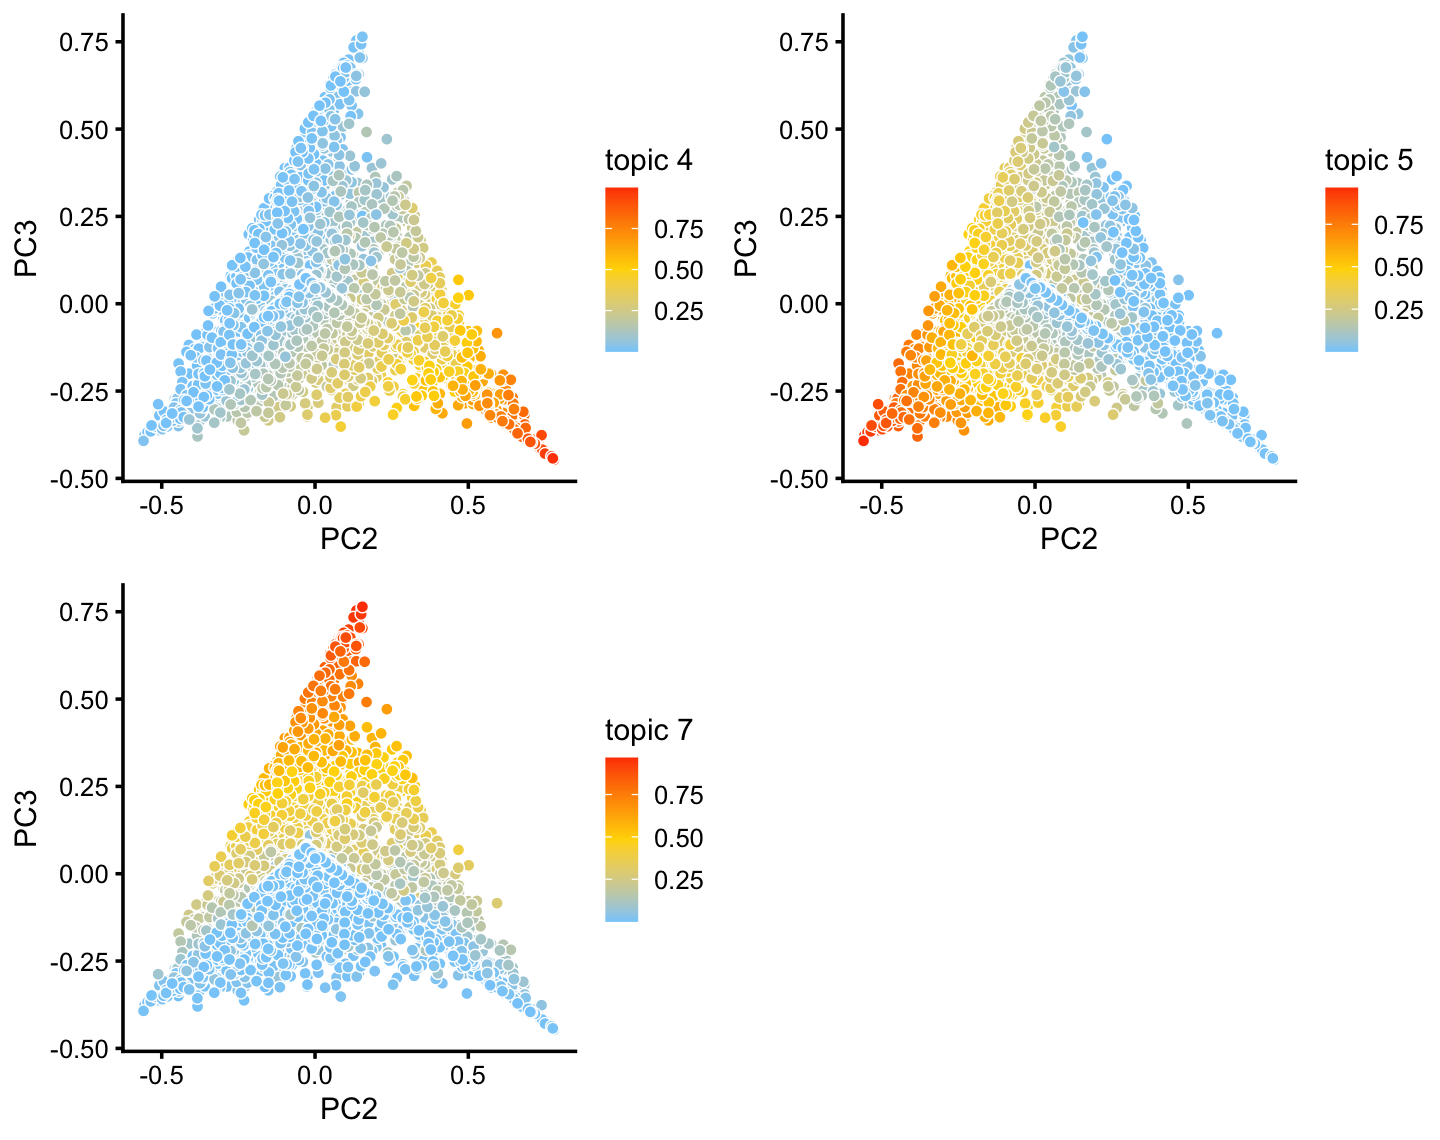
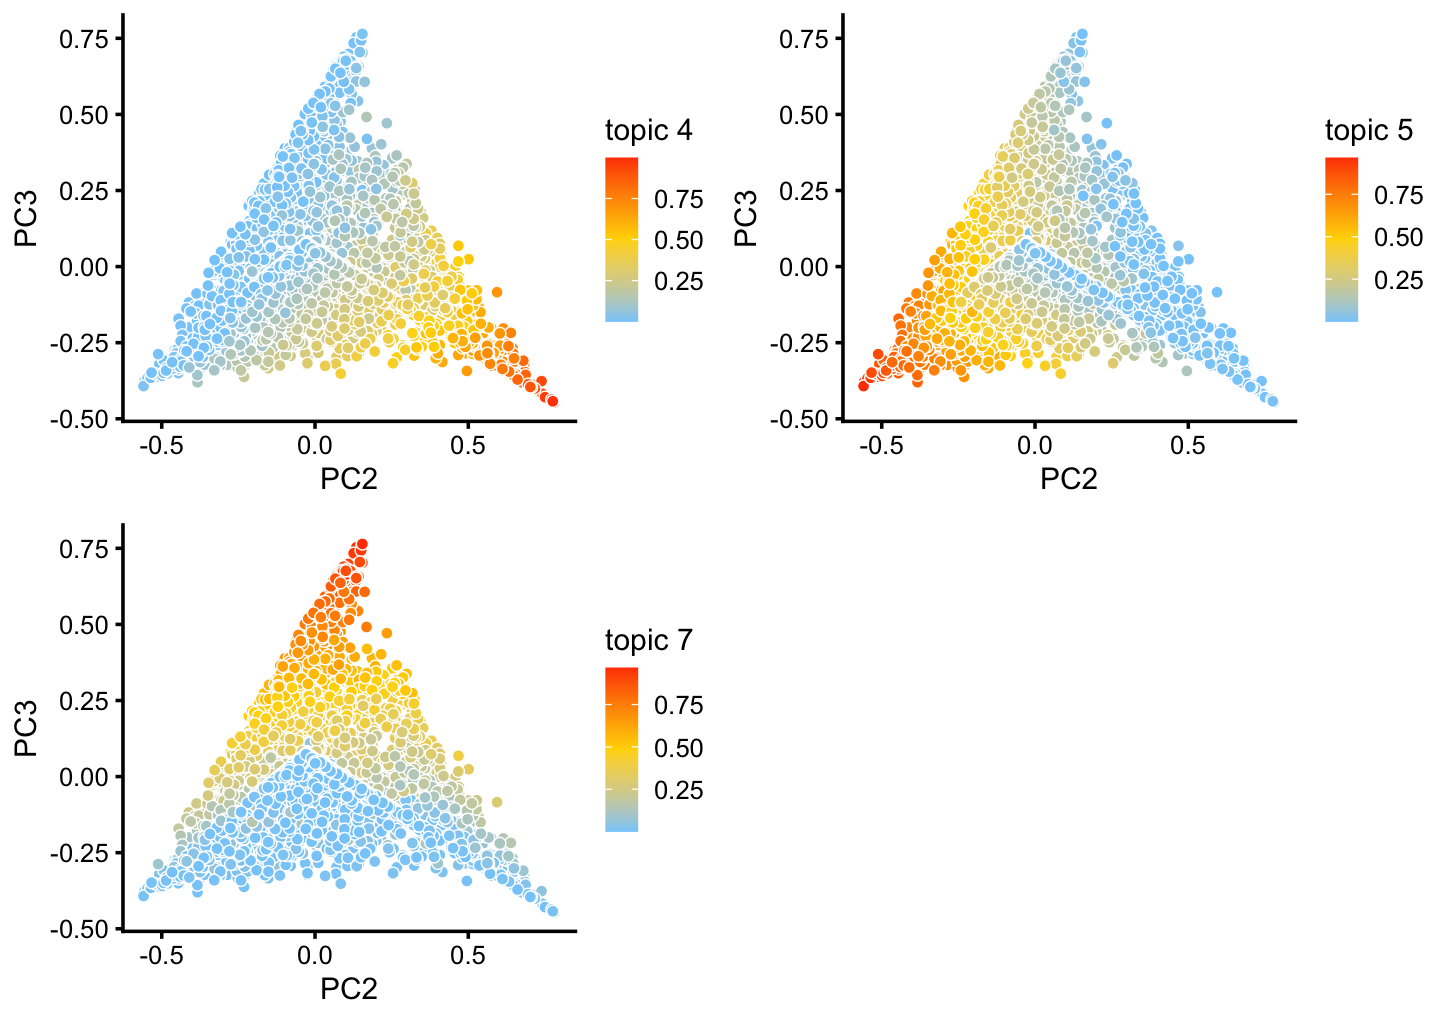
clusters_droplet no longer uses plots.R.

diff --git a/docs/clusters_droplet.html b/docs/clusters_droplet.html
@@ -414,16 +414,16 @@ This reproducible <a href="http://rmarkdown.rstudio.com">R Markdown</a> analysis
 <div class="panel panel-default">
 <div class="panel-heading">
 <p class="panel-title">
-<a data-toggle="collapse" data-parent="#workflowr-checks" href="#strongRepositoryversionstrongahrefhttpsgithubcomstephenslabsinglecelltopicstreef4e04485104469aaeb58e722340f256cf65b084dtargetblankf4e0448a"> <span class="glyphicon glyphicon-ok text-success" aria-hidden="true"></span> <strong>Repository version:</strong> <a href="https://github.com/stephenslab/single-cell-topics/tree/f4e04485104469aaeb58e722340f256cf65b084d" target="_blank">f4e0448</a> </a>
+<a data-toggle="collapse" data-parent="#workflowr-checks" href="#strongRepositoryversionstrongahrefhttpsgithubcomstephenslabsinglecelltopicstreed5ea8c29bf6088df4a4038a19916eff751b3cbe7targetblankd5ea8c2a"> <span class="glyphicon glyphicon-ok text-success" aria-hidden="true"></span> <strong>Repository version:</strong> <a href="https://github.com/stephenslab/single-cell-topics/tree/d5ea8c29bf6088df4a4038a19916eff751b3cbe7" target="_blank">d5ea8c2</a> </a>
 </p>
 </div>
[2 lines of base64/hex data omitted]
 <div class="panel-body">
 <p>
 Great! You are using Git for version control. Tracking code development and connecting the code version to the results is critical for reproducibility.
 </p>
 <p>
-The results in this page were generated with repository version <a href="https://github.com/stephenslab/single-cell-topics/tree/f4e04485104469aaeb58e722340f256cf65b084d" target="_blank">f4e0448</a>. See the <em>Past versions</em> tab to see a history of the changes made to the R Markdown and HTML files.
+The results in this page were generated with repository version <a href="https://github.com/stephenslab/single-cell-topics/tree/d5ea8c29bf6088df4a4038a19916eff751b3cbe7" target="_blank">d5ea8c2</a>. See the <em>Past versions</em> tab to see a history of the changes made to the R Markdown and HTML files.
 </p>
 <p>
 Note that you need to be careful to ensure that all relevant files for the analysis have been committed to Git prior to generating the results (you can use <code>wflow_publish</code> or <code>wflow_git_commit</code>). workflowr only checks the R Markdown file, but you know if there are other scripts or data files that it depends on. Below is the status of the Git repository when the results were generated:
@@ -444,6 +444,9 @@ Ignored files:
     Ignored:    output/pulseseq/diff-count-pulseseq.RData
     Ignored:    output/pulseseq/fits-pulseseq.RData
     Ignored:    output/pulseseq/rds/
+
+Untracked files:
+    Untracked:  analysis/clustering-droplet.rds
 
 Unstaged changes:
     Modified:   analysis/plots_tracheal_epithelium.Rmd
@@ -485,6 +488,40 @@ Message
 </tr>
 </thead>
 <tbody>
+<tr>
+<td>
+Rmd
+</td>
+<td>
+<a href="https://github.com/stephenslab/single-cell-topics/blob/d5ea8c29bf6088df4a4038a19916eff751b3cbe7/analysis/clusters_droplet.Rmd" target="_blank">d5ea8c2</a>
+</td>
+<td>
+Peter Carbonetto
+</td>
+<td>
+2020-10-06
+</td>
+<td>
+workflowr::wflow_publish(“clusters_droplet.Rmd”, verbose = TRUE)
+</td>
+</tr>
+<tr>
+<td>
+html
+</td>
+<td>
+<a href="https://rawcdn.githack.com/stephenslab/single-cell-topics/d707238a4eff6946e4e84130725678bfcb8ff27f/docs/clusters_droplet.html" target="_blank">d707238</a>
+</td>
+<td>
+Peter Carbonetto
+</td>
+<td>
+2020-10-06
+</td>
+<td>
+Re-built clusters_droplet analysis using new fastTopics plots.
+</td>
+</tr>
 <tr>
 <td>
 Rmd
@@ -974,8 +1011,7 @@ Implemented basic_pca_plot; improved labeled_pca_plot function.
 library(dplyr)
 library(fastTopics)
 library(ggplot2)
-library(cowplot)
-source(&quot;../code/plots.R&quot;)</code></pre>
+library(cowplot)</code></pre>
 <div id="load-data-and-results" class="section level2">
 <h2>Load data and results</h2>
 <p>Load the droplet data.</p>
@@ -1013,6 +1049,17 @@ Date
 </tr>
 </thead>
 <tbody>
+<tr>
+<td>
+<a href="https://github.com/stephenslab/single-cell-topics/blob/d707238a4eff6946e4e84130725678bfcb8ff27f/docs/figure/clusters_droplet.Rmd/clustering-1-1.png" target="_blank">d707238</a>
+</td>
+<td>
+Peter Carbonetto
+</td>
+<td>
+2020-10-06
+</td>
+</tr>
 <tr>
 <td>
 <a href="https://github.com/stephenslab/single-cell-topics/blob/b1cb82e4b0ce2e1db51ebb5f3a34a91178fe9dc3/docs/figure/clusters_droplet.Rmd/clustering-1-1.png" target="_blank">b1cb82e</a>
@@ -1060,6 +1107,17 @@ Date
 </tr>
 </thead>
 <tbody>
+<tr>
+<td>
+<a href="https://github.com/stephenslab/single-cell-topics/blob/d707238a4eff6946e4e84130725678bfcb8ff27f/docs/figure/clusters_droplet.Rmd/clustering-2-1.png" target="_blank">d707238</a>
+</td>
+<td>
+Peter Carbonetto
+</td>
+<td>
+2020-10-06
+</td>
+</tr>
 <tr>
 <td>
 <a href="https://github.com/stephenslab/single-cell-topics/blob/b1cb82e4b0ce2e1db51ebb5f3a34a91178fe9dc3/docs/figure/clusters_droplet.Rmd/clustering-2-1.png" target="_blank">b1cb82e</a>
@@ -1114,6 +1172,17 @@ Date
 </tr>
 </thead>
 <tbody>
+<tr>
+<td>
+<a href="https://github.com/stephenslab/single-cell-topics/blob/d707238a4eff6946e4e84130725678bfcb8ff27f/docs/figure/clusters_droplet.Rmd/clustering-4-1.png" target="_blank">d707238</a>
+</td>
+<td>
+Peter Carbonetto
+</td>
+<td>
+2020-10-06
+</td>
+</tr>
 <tr>
 <td>
 <a href="https://github.com/stephenslab/single-cell-topics/blob/5361fdfce874122596ccf2e97e7c00b8379f3e0b/docs/figure/clusters_droplet.Rmd/clustering-4-1.png" target="_blank">5361fdf</a>
@@ -1179,6 +1248,17 @@ Date
 <tbody>
 <tr>
 <td>
+<a href="https://github.com/stephenslab/single-cell-topics/blob/d707238a4eff6946e4e84130725678bfcb8ff27f/docs/figure/clusters_droplet.Rmd/clustering-5-1.png" target="_blank">d707238</a>
+</td>
+<td>
+Peter Carbonetto
+</td>
+<td>
+2020-10-06
+</td>
+</tr>
+<tr>
+<td>
 <a href="https://github.com/stephenslab/single-cell-topics/blob/db6135c17587e1bb862ac005452ee934662b0c7b/docs/figure/clusters_droplet.Rmd/clustering-5-1.png" target="_blank">db6135c</a>
 </td>
 <td>
@@ -1241,6 +1321,17 @@ Date
 </tr>
 </thead>
 <tbody>
+<tr>
+<td>
+<a href="https://github.com/stephenslab/single-cell-topics/blob/d707238a4eff6946e4e84130725678bfcb8ff27f/docs/figure/clusters_droplet.Rmd/clustering-6-1.png" target="_blank">d707238</a>
+</td>
+<td>
+Peter Carbonetto
+</td>
+<td>
+2020-10-06
+</td>
+</tr>
 <tr>
 <td>
 <a href="https://github.com/stephenslab/single-cell-topics/blob/ab1ed99109322c2f5ad7df5d0041ce367a9fcfb7/docs/figure/clusters_droplet.Rmd/clustering-6-1.png" target="_blank">ab1ed99</a>
@@ -1374,6 +1465,17 @@ Date
 </tr>
 </thead>
 <tbody>
+<tr>
+<td>
+<a href="https://github.com/stephenslab/single-cell-topics/blob/d707238a4eff6946e4e84130725678bfcb8ff27f/docs/figure/clusters_droplet.Rmd/clustering-8-1.png" target="_blank">d707238</a>
+</td>
+<td>
+Peter Carbonetto
+</td>
+<td>
+2020-10-06
+</td>
+</tr>
 <tr>
 <td>
 <a href="https://github.com/stephenslab/single-cell-topics/blob/4fe31a61b346b7fc77438bc5b1c5828eb11d7266/docs/figure/clusters_droplet.Rmd/clustering-8-1.png" target="_blank">4fe31a6</a>
@@ -1524,6 +1626,17 @@ Date
 <tbody>
 <tr>
 <td>
+<a href="https://github.com/stephenslab/single-cell-topics/blob/d707238a4eff6946e4e84130725678bfcb8ff27f/docs/figure/clusters_droplet.Rmd/pca-plot-club-1.png" target="_blank">d707238</a>
+</td>
+<td>
+Peter Carbonetto
+</td>
+<td>
+2020-10-06
+</td>
+</tr>
+<tr>
+<td>
 <a href="https://github.com/stephenslab/single-cell-topics/blob/3bada76cfc4e31fc068b34049f7ced46cdf91750/docs/figure/clusters_droplet.Rmd/pca-plot-club-1.png" target="_blank">3bada76</a>
 </td>
 <td>
@@ -1568,6 +1681,17 @@ Date
 </tr>
 </thead>
 <tbody>
+<tr>
+<td>
+<a href="https://github.com/stephenslab/single-cell-topics/blob/d707238a4eff6946e4e84130725678bfcb8ff27f/docs/figure/clusters_droplet.Rmd/pca-plot-tuft-neuroendocrine-1.png" target="_blank">d707238</a>
+</td>
+<td>
+Peter Carbonetto
+</td>
+<td>
+2020-10-06
+</td>
+</tr>
 <tr>
 <td>
 <a href="https://github.com/stephenslab/single-cell-topics/blob/3bada76cfc4e31fc068b34049f7ced46cdf91750/docs/figure/clusters_droplet.Rmd/pca-plot-tuft-neuroendocrine-1.png" target="_blank">3bada76</a>
